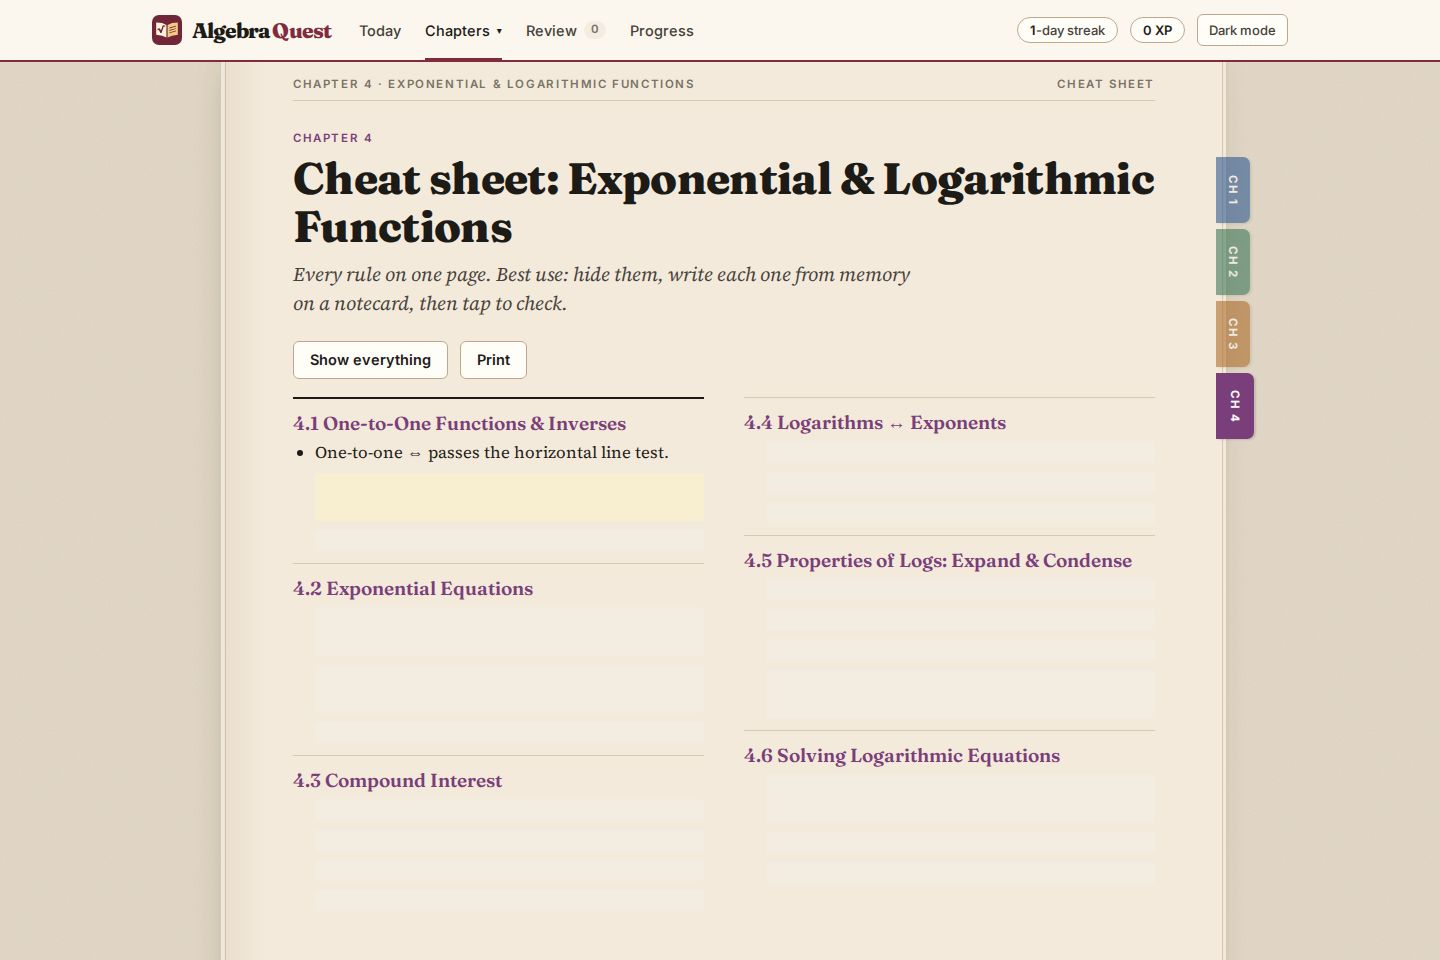
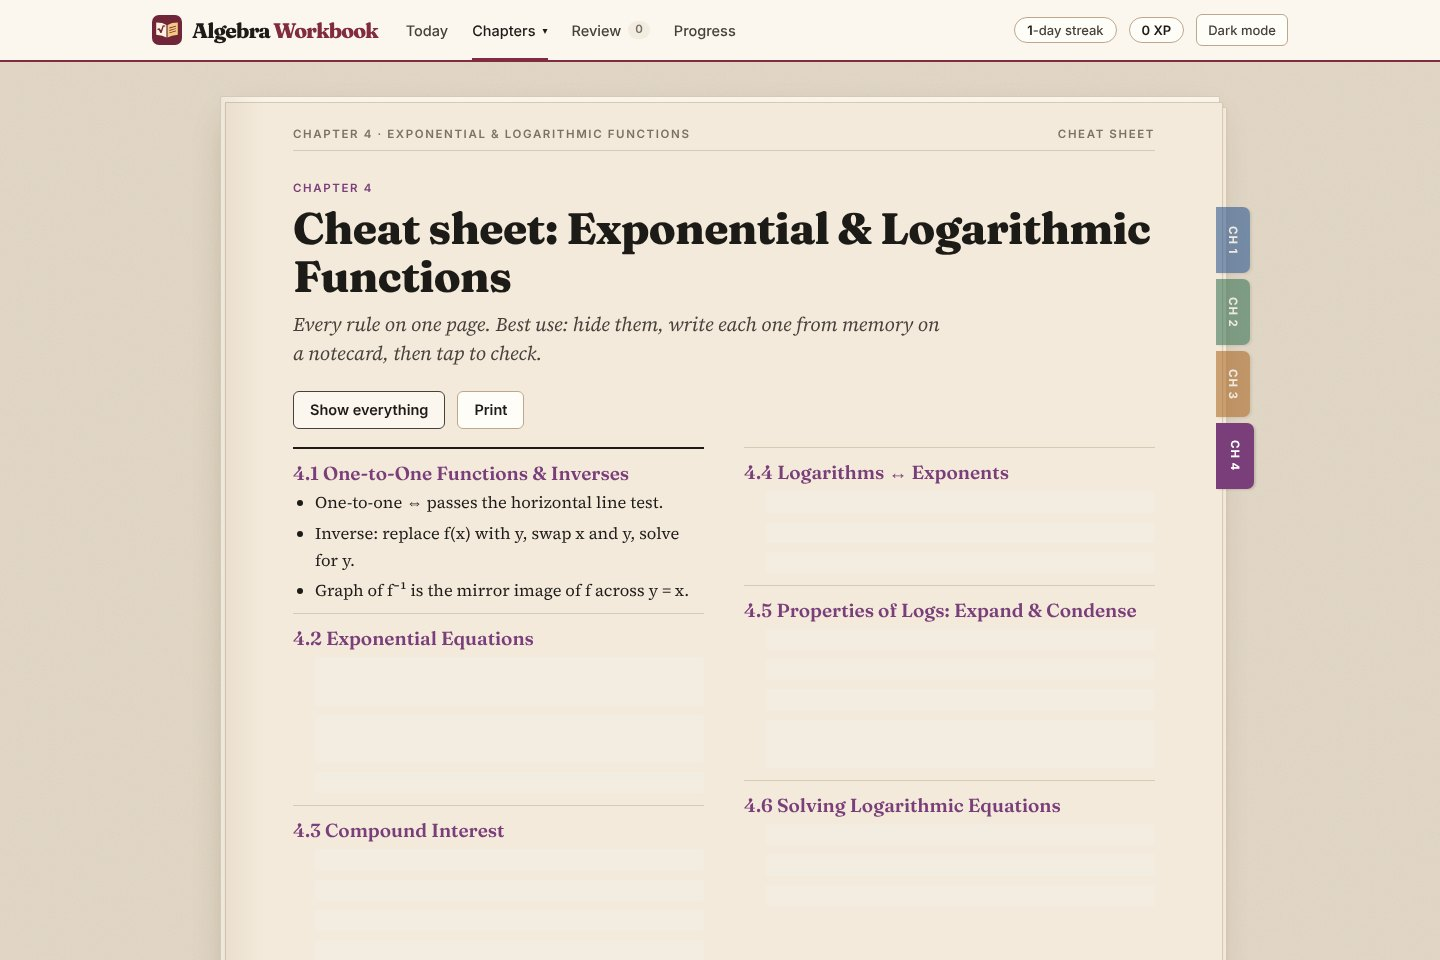
Rename Algebra Quest to Algebra Workbook (saved progress carries over) and retake every screenshot

diff --git a/js/app.js b/js/app.js
@@ -1,10 +1,10 @@
-/* Algebra Quest app: router, notebook sidebar, lessons, flashcards with spaced review, practice, mixed review,
+/* Algebra Workbook app: router, notebook sidebar, lessons, flashcards with spaced review, practice, mixed review,
    chapter challenges and progress. Everything is saved only in this browser. */
 (function () {
 'use strict';
 if (window.top !== window.self) {            // refuse to run inside another site's frame
   document.body.textContent = '';
-  const a = document.createElement('a'); a.href = location.href; a.target = '_top'; a.textContent = 'Open Algebra Quest';
+  const a = document.createElement('a'); a.href = location.href; a.target = '_top'; a.textContent = 'Open Algebra Workbook';
   document.body.append(a); return;
 }
 const AQ = window.AQ, { H, chapters, topicIndex, gens, widgets, pick, shuffle } = AQ;
@@ -33,7 +33,7 @@ chapters.forEach(c => c.topics.forEach(t => (DECK[t.id] || []).forEach((fb, i) =
 const cardsOf = tid => ALL_CARDS.filter(c => c.tid === tid);
 
 /* ---------- saved progress (validated; storage may be blocked) ---------- */
-const KEY = 'algebra-quest-v1';
+const KEY = 'algebra-quest-v1'; // the app's old name; kept so saved progress carries over
 const clampInt = (v, lo, hi) => { v = Math.floor(Number(v)); return Number.isFinite(v) ? Math.max(lo, Math.min(hi, v)) : lo; };
 function fresh() { return { xp: 0, best: 0, topics: {}, boss: {}, cards: {}, days: [], theme: '', recall: false, last: '', mixDay: '' }; }
 function sanitize(o) {
@@ -104,8 +104,8 @@ const side = document.getElementById('side'), topEl = document.getElementById('t
 let current = { page: 'home' };
 let deferredInstall = null;
 function brand() {
-  return el('a', { class: 'brand', href: '#/', 'aria-label': 'Algebra Quest home' }, el('img', { src: 'icon.svg?v=6', alt: '', width: 30, height: 30 }),
-    el('span', { class: 'bt', html: 'Algebra <i>Quest</i>' }));
+  return el('a', { class: 'brand', href: '#/', 'aria-label': 'Algebra Workbook home' }, el('img', { src: 'icon.svg?v=6', alt: '', width: 30, height: 30 }),
+    el('span', { class: 'bt', html: 'Algebra <i>Workbook</i>' }));
 }
 function mdots(tid) {
   const s = el('span', { class: 'mdots', title: 'Lesson read · cards learned · practice star' });
@@ -569,8 +569,8 @@ function tocRow(c, t) {
   return el('a', { class: 'tocrow', href: '#/ch/' + c.n + '/' + t.id, style: '--c:' + CH_COLOR[c.n] }, el('span', { class: 'no', text: SEC_NO[t.id] }), el('span', { class: 'tt', text: t.title }), el('span', { class: 'lead' }), st);
 }
 function pageHome() {
-  document.title = 'Algebra Quest · Master college algebra, one quest at a time';
-  folio = { head: ['Algebra Quest', 'College Algebra'], foot: ['A study companion', 'i', '4 chapters · 27 sections'] };
+  document.title = 'Algebra Workbook · College algebra, one section at a time';
+  folio = { head: ['Algebra Workbook', 'College Algebra'], foot: ['A study companion', 'i', '4 chapters · 27 sections'] };
   const tid = suggestTopic(), ns = nextStepFor(tid), started = Object.keys(store.topics).length > 0 || Object.keys(store.cards).length > 0;
   const hero = el('section', { class: 'hero' },
     el('div', null, el('div', { class: 'kicker', text: 'College algebra' }), el('h1', { tabindex: '-1', html: 'The algebra <em>workbook.</em>' }),
@@ -600,8 +600,8 @@ function missedTopicReview() {
     ...topics.map(t => el('a', { class: 'btn', href: '#/ch/' + t.ch + '/' + t.id + '/practice', text: t.title + ' →' })));
 }
 function pageReview() {
-  document.title = 'Review · Algebra Quest';
-  folio = { head: ['Review', 'Spaced repetition'], foot: ['Algebra Quest', 'R', 'Review'] };
+  document.title = 'Review · Algebra Workbook';
+  folio = { head: ['Review', 'Spaced repetition'], foot: ['Algebra Workbook', 'R', 'Review'] };
   const due = dueCards(), canMix = mixTopics().length > 0, learned = ALL_CARDS.filter(c => cs(c.id).b >= 1).length;
   const next = ALL_CARDS.map(c => cs(c.id)).filter(s => s.b >= 1 && s.d > Date.now()).map(s => s.d).sort((a, b) => a - b)[0];
   return el('div', null, el('div', { class: 'kicker', text: 'Spaced review' }), el('h1', { tabindex: '-1', text: 'Review' }),
@@ -616,8 +616,8 @@ function pageReview() {
         canMix ? el('a', { class: 'btn primary', href: '#/review/mix', text: 'Start mixed review →' }) : el('a', { class: 'btn', href: '#/ch/1/c1-linear/practice', text: 'Try a first problem' }))));
 }
 function pageReviewCards() {
-  document.title = 'Flashcard review · Algebra Quest';
-  folio = { head: ['Review', 'Flashcards'], foot: ['Algebra Quest', 'R', 'Flashcard review'] };
+  document.title = 'Flashcard review · Algebra Workbook';
+  folio = { head: ['Review', 'Flashcards'], foot: ['Algebra Workbook', 'R', 'Flashcard review'] };
   const root = el('div', null, el('div', { class: 'kicker', text: 'Review' }), el('h1', { tabindex: '-1', text: 'Flashcard review' }));
   const due = shuffle(dueCards()).slice(0, 30);
   if (!due.length) { root.append(el('div', { class: 'empty' }, el('h3', { text: 'Nothing due right now' }), el('p', { text: 'Your memory is up to date. Learn a new deck from your next section.' }), el('a', { class: 'btn hot', href: nextStepFor(suggestTopic()).href, text: 'Next section →' }))); return root; }
@@ -625,8 +625,8 @@ function pageReviewCards() {
   const host = el('div'); root.append(host); runCards(host, due, { after: [el('a', { class: 'btn hot', href: '#/review/mix', text: 'Now a mixed problem set →' })] }); return root;
 }
 function pageReviewMix() {
-  document.title = 'Mixed review · Algebra Quest';
-  folio = { head: ['Review', 'Mixed problem set'], foot: ['Algebra Quest', 'R', 'Mixed review'] };
+  document.title = 'Mixed review · Algebra Workbook';
+  folio = { head: ['Review', 'Mixed problem set'], foot: ['Algebra Workbook', 'R', 'Mixed review'] };
   const root = el('div', null, el('div', { class: 'kicker', text: 'Review' }), el('h1', { tabindex: '-1', text: 'Mixed review' }));
   if (!mixTopics().length) { root.append(el('div', { class: 'empty' }, el('h3', { text: 'Practice something first' }), el('p', { text: 'Mixed review shuffles topics you’ve already practiced. Solve a problem in any section to unlock it.' }), el('a', { class: 'btn hot', href: '#/ch/1/c1-linear/practice', text: 'Start with Chapter 1 →' }))); return root; }
   root.append(el('p', { class: 'sub', text: 'Eight problems, no labels telling you the method. First decide what kind of problem it is, then solve it.' }));
@@ -634,8 +634,8 @@ function pageReviewMix() {
 }
 function pageChapter(n) {
   const ch = chapters.find(c => c.n === n); if (!ch) return pageHome();
-  document.title = 'Chapter ' + n + ': ' + ch.title + ' · Algebra Quest';
-  folio = { head: ['Chapter ' + n, ch.title], foot: ['Algebra Quest', String(SEC_ORDER.indexOf(ch.topics[0].id) + 1), 'Chapter ' + n], ch: n };
+  document.title = 'Chapter ' + n + ': ' + ch.title + ' · Algebra Workbook';
+  folio = { head: ['Chapter ' + n, ch.title], foot: ['Algebra Workbook', String(SEC_ORDER.indexOf(ch.topics[0].id) + 1), 'Chapter ' + n], ch: n };
   const root = el('div', { style: '--c:' + CH_COLOR[n] });
   root.append(el('div', { class: 'chhead' }, el('div', { class: 'big', text: String(n) }), el('div', null, el('div', { class: 'kicker', text: 'Chapter ' + n }), el('h1', { tabindex: '-1', text: ch.title }), el('p', { class: 'sub', text: ch.blurb }))),
     el('h2', { text: 'In this chapter' }), el('p', { class: 'note', text: 'Each section goes Learn → Flashcards → Practice. Work through them in order the first time.' }),
@@ -650,10 +650,10 @@ function pageChapter(n) {
 function pageTopic(n, id, tab) {
   const t = topicIndex[id], ch = chapters.find(c => c.n === n); if (!t || t.ch !== n) return pageChapter(n);
   tab = tab === 'practice' || tab === 'cards' ? tab : 'learn';
-  document.title = SEC_NO[id] + ' ' + t.title + ' · Algebra Quest';
+  document.title = SEC_NO[id] + ' ' + t.title + ' · Algebra Workbook';
   store.last = id; if (tab === 'learn' && !tStat(id).read) { tMut(id).read = 1; } save();
   const i = ch.topics.indexOf(t), sec = SEC_NO[id], root = el('div', { style: '--c:' + CH_COLOR[n] }), base = '#/ch/' + n + '/' + id;
-  folio = { head: ['Chapter ' + n + ' · ' + ch.title, 'Section ' + sec], foot: ['Algebra Quest', String(SEC_ORDER.indexOf(id) + 1), { learn: 'Lesson', cards: 'Flashcards', practice: 'Practice' }[tab]], ch: n };
+  folio = { head: ['Chapter ' + n + ' · ' + ch.title, 'Section ' + sec], foot: ['Algebra Workbook', String(SEC_ORDER.indexOf(id) + 1), { learn: 'Lesson', cards: 'Flashcards', practice: 'Practice' }[tab]], ch: n };
   const nCards = cardsOf(id).length, learned = learnedCount(id);
   const step = (k, num, label, sub, done) => el('a', { class: 'step' + (tab === k ? ' on' : '') + (done ? ' done' : ''), href: base + (k === 'learn' ? '' : '/' + k), 'aria-current': tab === k ? 'page' : null }, el('span', { class: 'sn', text: done ? '✓' : String(num) }), label, el('span', { class: 'sx', text: sub }));
   root.append(el('div', { class: 'qhead' }, el('h1', { tabindex: '-1' }, el('span', { class: 'secno', text: sec }), t.title), el('p', { class: 'sub', text: t.tag + '.' }),
@@ -694,16 +694,16 @@ function pageTopic(n, id, tab) {
 }
 function pageBoss(n) {
   const ch = chapters.find(c => c.n === n); if (!ch) return pageHome();
-  document.title = 'Chapter ' + n + ' review · Algebra Quest';
-  folio = { head: ['Chapter ' + n + ' · ' + ch.title, 'Chapter review'], foot: ['Algebra Quest', String(SEC_ORDER.indexOf(ch.topics[ch.topics.length - 1].id) + 1), 'Chapter review'], ch: n };
+  document.title = 'Chapter ' + n + ' review · Algebra Workbook';
+  folio = { head: ['Chapter ' + n + ' · ' + ch.title, 'Chapter review'], foot: ['Algebra Workbook', String(SEC_ORDER.indexOf(ch.topics[ch.topics.length - 1].id) + 1), 'Chapter review'], ch: n };
   const root = el('div', { style: '--c:' + CH_COLOR[n] }), host = el('div');
   root.append(el('div', { class: 'kicker', text: 'Chapter ' + n }), el('h1', { tabindex: '-1', text: 'Chapter review' }), el('p', { class: 'sub', text: 'Ten mixed problems. First-try answers earn 10 points, later answers 5, and revealed answers 0. Treat it like the real test: no notes.' }), host);
   runBoss(host, ch); return root;
 }
 function pageCheat(n) {
   const ch = chapters.find(c => c.n === n); if (!ch) return pageHome();
-  document.title = 'Chapter ' + n + ' cheat sheet · Algebra Quest';
-  folio = { head: ['Chapter ' + n + ' · ' + ch.title, 'Cheat sheet'], foot: ['Algebra Quest', String(SEC_ORDER.indexOf(ch.topics[ch.topics.length - 1].id) + 1), 'Cheat sheet'], ch: n };
+  document.title = 'Chapter ' + n + ' cheat sheet · Algebra Workbook';
+  folio = { head: ['Chapter ' + n + ' · ' + ch.title, 'Cheat sheet'], foot: ['Algebra Workbook', String(SEC_ORDER.indexOf(ch.topics[ch.topics.length - 1].id) + 1), 'Cheat sheet'], ch: n };
   const root = el('div', { class: 'cheat', style: '--c:' + CH_COLOR[n] });
   const quiz = el('button', { class: 'btn', type: 'button', text: 'Quiz me (hide the rules)' });
   quiz.addEventListener('click', () => { const on = !root.classList.contains('quiz'); root.classList.toggle('quiz', on); root.querySelectorAll('li').forEach(li => li.classList.remove('shown')); quiz.textContent = on ? 'Show everything' : 'Quiz me (hide the rules)'; });
@@ -715,8 +715,8 @@ function pageCheat(n) {
   return root;
 }
 function pageProgress() {
-  document.title = 'My progress · Algebra Quest';
-  folio = { head: ['Progress', 'Saved only in this browser'], foot: ['Algebra Quest', 'P', 'Progress'] };
+  document.title = 'My progress · Algebra Workbook';
+  folio = { head: ['Progress', 'Saved only in this browser'], foot: ['Algebra Workbook', 'P', 'Progress'] };
   const earned = Object.keys(topicIndex).reduce((s, id) => s + starsOf(id), 0), solved = Object.values(store.topics).reduce((s, t) => s + t.tried, 0);
   const learned = ALL_CARDS.filter(c => cs(c.id).b >= 2).length, root = el('div');
   root.append(el('div', { class: 'kicker', text: 'Your record' }), el('h1', { tabindex: '-1', text: 'My progress' }), el('p', { class: 'sub', text: 'No accounts and no tracking. Your study history stays on this device.' }),
@@ -753,7 +753,7 @@ function route() {
     else if (parts[2] === 'cheat') { current = { page: 'cheat', ch: n }; page = pageCheat(n); }
     else { current = { page: 'topic', ch: n, tid: topicIndex[parts[2]] ? parts[2] : '' }; page = pageTopic(n, parts[2], parts[3]); }
   } else page = pageHome();
-  if (!folio.head) folio = { head: ['Algebra Quest', 'College Algebra'], foot: ['Algebra Quest', '', ''] };
+  if (!folio.head) folio = { head: ['Algebra Workbook', 'College Algebra'], foot: ['Algebra Workbook', '', ''] };
   const app = document.getElementById('app'); app.replaceChildren(frame(page)); refreshSide(); window.scrollTo(0, 0);
   const h = app.querySelector('h1'); if (h) h.focus({ preventScroll: true });
 }

diff --git a/index.html b/index.html
@@ -6,22 +6,22 @@
 <meta name="referrer" content="no-referrer">
 <meta name="viewport" content="width=device-width, initial-scale=1">
 <meta name="theme-color" content="#702638">
-<meta name="description" content="Algebra Quest: a chapter-by-chapter college algebra study game with lessons, interactive graphs, and endless practice problems.">
-<title>Algebra Quest: College Algebra study game</title>
+<meta name="description" content="Algebra Workbook: a chapter-by-chapter college algebra workbook with lessons, interactive graphs, and endless practice problems.">
+<title>Algebra Workbook: college algebra lessons and practice</title>
 <meta property="og:type" content="website">
-<meta property="og:url" content="https://christianjkrantz.github.io/algebra-quest/">
-<meta property="og:title" content="Algebra Quest: a college algebra study notebook">
+<meta property="og:url" content="https://christianjkrantz.github.io/algebra-workbook/">
+<meta property="og:title" content="Algebra Workbook: college algebra lessons and practice">
 <meta property="og:description" content="Lessons, worked examples, graph labs, spaced-repetition flashcards and endless practice for college algebra. Hints teach the method, never the answer.">
-<meta property="og:image" content="https://christianjkrantz.github.io/algebra-quest/docs/og.jpg">
+<meta property="og:image" content="https://christianjkrantz.github.io/algebra-workbook/docs/og.jpg">
 <meta property="og:image:width" content="1200">
 <meta property="og:image:height" content="630">
-<meta property="og:image:alt" content="Algebra Quest: a lesson with a parabola graph lab and today's study plan">
+<meta property="og:image:alt" content="Algebra Workbook: a lesson with a parabola graph lab and today's study plan">
 <meta name="twitter:card" content="summary_large_image">
 <link rel="apple-touch-icon" href="apple-touch-icon.png?v=6">
 <link rel="apple-touch-icon" sizes="180x180" href="apple-touch-icon.png?v=6">
 <link rel="icon" href="icon-192.png?v=6" sizes="192x192" type="image/png">
 <link rel="icon" href="icon.svg?v=6" type="image/svg+xml">
-<meta name="apple-mobile-web-app-title" content="Algebra Quest">
+<meta name="apple-mobile-web-app-title" content="Algebra Workbook">
 <meta name="apple-mobile-web-app-capable" content="yes">
 <meta name="mobile-web-app-capable" content="yes">
 <meta name="apple-mobile-web-app-status-bar-style" content="default">
@@ -31,11 +31,11 @@
 <body>
 <a class="skip" href="#app">Skip to content</a>
 <header class="top" id="top"></header>
-<nav class="side" id="side" aria-label="Chapters and quests"></nav>
+<nav class="side" id="side" aria-label="Chapters and sections"></nav>
 <button class="scrim" id="scrim" type="button" aria-label="Close menu" tabindex="-1"></button>
 <div class="page">
-<main id="app" tabindex="-1"><noscript>Algebra Quest needs JavaScript to run.</noscript></main>
-<footer>Algebra Quest is a free study tool. Problems are randomly generated for practice and are not copies of any exam. Progress is saved only in your browser. Set in Fraunces, Source Serif 4 and Inter. MIT licensed.</footer>
+<main id="app" tabindex="-1"><noscript>Algebra Workbook needs JavaScript to run.</noscript></main>
+<footer>Algebra Workbook is a free study tool. Problems are randomly generated for practice and are not copies of any exam. Progress is saved only in your browser. Set in Fraunces, Source Serif 4 and Inter. MIT licensed.</footer>
 </div>
 <script src="js/engine.js"></script>
 <script src="js/graph.js"></script>

diff --git a/sw.js b/sw.js
@@ -1,7 +1,8 @@
-/* Algebra Quest service worker: keeps a copy of the site on the device so it works offline.
+/* Algebra Workbook service worker: keeps a copy of the site on the device so it works offline.
    Pages are network-first and skip the browser's HTTP cache, so updates show up right away; fonts and icons
    (versioned URLs) are cache-first. Only this site's own files are handled. */
-const CACHE_PREFIX = 'algebra-quest-v';
+const CACHE_PREFIX = 'algebra-workbook-v';
+const OLD_PREFIX = 'algebra-quest-v'; // caches from before the rename
 const CACHE = CACHE_PREFIX + '17';
 const FONTS = ['fraunces-latin-600-normal', 'fraunces-latin-600-italic', 'fraunces-latin-800-normal',
   'source-serif-4-latin-400-normal', 'source-serif-4-latin-400-italic', 'source-serif-4-latin-600-normal', 'source-serif-4-latin-700-normal',
@@ -11,7 +12,7 @@ const CORE = ['./', 'index.html', 'css/style.css', 'js/engine.js', 'js/graph.js'
   'manifest.webmanifest?v=6', 'icon.svg?v=6', 'icon-192.png?v=6', 'icon-512.png?v=6', 'icon-maskable-512.png?v=6', 'apple-touch-icon.png?v=6', ...FONTS];
 self.addEventListener('install', e => { e.waitUntil(caches.open(CACHE).then(c => c.addAll(CORE)).then(() => self.skipWaiting())); });
 self.addEventListener('activate', e => {
-  e.waitUntil(caches.keys().then(keys => Promise.all(keys.filter(k => k.startsWith(CACHE_PREFIX) && k !== CACHE).map(k => caches.delete(k)))).then(() => self.clients.claim()));
+  e.waitUntil(caches.keys().then(keys => Promise.all(keys.filter(k => (k.startsWith(CACHE_PREFIX) && k !== CACHE) || k.startsWith(OLD_PREFIX)).map(k => caches.delete(k)))).then(() => self.clients.claim()));
 });
 self.addEventListener('fetch', e => {
   const req = e.request;

diff --git a/css/style.css b/css/style.css
@@ -1,4 +1,4 @@
-/* Algebra Quest: "printed textbook" design system.
+/* Algebra Workbook: "printed textbook" design system.
    Pages are sheets of paper on a desk. Headings: Fraunces. Reading: Source Serif 4. Interface labels: Inter.
    Typed answers: AQ Legible Mono (Atkinson Hyperlegible Mono with an unslashed zero). */
 @font-face{font-family:Fraunces;font-weight:600;font-display:swap;src:url(../fonts/fraunces-latin-600-normal.woff2) format('woff2')}
@@ -246,7 +246,7 @@ table.prog a{color:var(--ink);text-decoration:none}table.prog a:hover{color:var(
 table.prog{min-width:540px}
 .row{display:flex;gap:12px;flex-wrap:wrap;align-items:center}
 
-/* ---------- section (quest) page ---------- */
+/* ---------- section page ---------- */
 .qhead{margin-bottom:26px}
 .steps{display:flex;margin-top:16px;border:1px solid var(--line2);border-radius:6px;overflow:hidden;width:max-content;max-width:100%;background:var(--card)}
 .step{display:flex;align-items:center;gap:8px;padding:8px 16px;border-right:1px solid var(--line2);color:var(--ink2);text-decoration:none;font:600 13.5px var(--ui);white-space:nowrap}

diff --git a/tests/test_no_test_problems.js b/tests/test_no_test_problems.js
@@ -1,6 +1,6 @@
 /* Node test: no generated problem, lesson example or flashcard reuses a practice-test problem.
    practice_test_fingerprints.json holds only SHA-256 hashes of each test problem's numbers and variables (tagged
-   with the quest it belongs to), so the test problems themselves are not stored in this repo.
+   with the section it belongs to), so the test problems themselves are not stored in this repo.
    Run: N=2000 node tests/test_no_test_problems.js */
 const crypto = require('crypto'), { candidates } = require('./fingerprint.js');
 const AQ = require('../js/engine.js'); require('../js/graph.js'); require('../js/gens1.js'); require('../js/gens2.js'); require('../js/content.js'); require('../js/cards.js');

diff --git a/js/cards.js b/js/cards.js
@@ -1,4 +1,4 @@
-/* Algebra Quest flashcards: one deck per quest. Front = a question to answer from memory, back = the fact.
+/* Algebra Workbook flashcards: one deck per section. Front = a question to answer from memory, back = the fact.
    Text uses the same ~math~ markup as the lessons. Cards teach rules and methods only, never test answers. */
 (function (root) {
 'use strict';

diff --git a/js/content.js b/js/content.js
@@ -1,4 +1,4 @@
-/* Algebra Quest lessons. Text uses ~math~ segments (see AQ.H). All worked examples use their own numbers,
+/* Algebra Workbook lessons. Text uses ~math~ segments (see AQ.H). All worked examples use their own numbers,
    different from the practice-test problems, and no answer to any practice-test problem appears anywhere. */
 (function (root) {
 'use strict';

diff --git a/js/gens1.js b/js/gens1.js
@@ -1,4 +1,4 @@
-/* Algebra Quest practice generators, chapters 1 and 2.
+/* Algebra Workbook practice generators, chapters 1 and 2.
    Every generator returns {prompt, fields:[{key,label,check,answer,...}], hints:[], solution:[], visual?}.
    Strings use ~math~ segments (see AQ.H). Hints nudge toward the method and never state the answer. */
 (function (root) {

diff --git a/js/engine.js b/js/engine.js
@@ -1,4 +1,4 @@
-/* Algebra Quest engine: random helpers, fractions, a small expression parser (real + complex),
+/* Algebra Workbook engine: random helpers, fractions, a small expression parser (real + complex),
    answer checkers, and the text-to-HTML math renderer. No eval anywhere. */
 (function (root) {
 'use strict';

diff --git a/js/widgets.js b/js/widgets.js
@@ -1,4 +1,4 @@
-/* Algebra Quest interactive labs. Each widget draws into a container with the SVG grapher. */
+/* Algebra Workbook interactive labs. Each widget draws into a container with the SVG grapher. */
 (function (root) {
 'use strict';
 const AQ = root.AQ = root.AQ || {};

diff --git a/js/graph.js b/js/graph.js
@@ -1,4 +1,4 @@
-/* Algebra Quest: tiny SVG grapher. Returns an SVG string; colours come from CSS classes. */
+/* Algebra Workbook: tiny SVG grapher. Returns an SVG string; colours come from CSS classes. */
 (function (root) {
 'use strict';
 const AQ = root.AQ = root.AQ || {};

diff --git a/js/gens2.js b/js/gens2.js
@@ -1,4 +1,4 @@
-/* Algebra Quest practice generators, chapters 3 and 4. */
+/* Algebra Workbook practice generators, chapters 3 and 4. */
 (function (root) {
 'use strict';
 const AQ = root.AQ = root.AQ || {};
